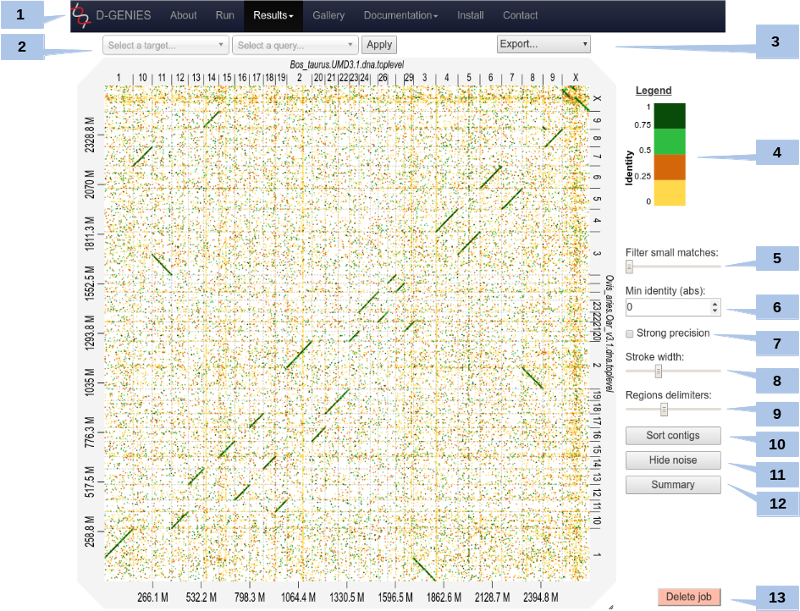
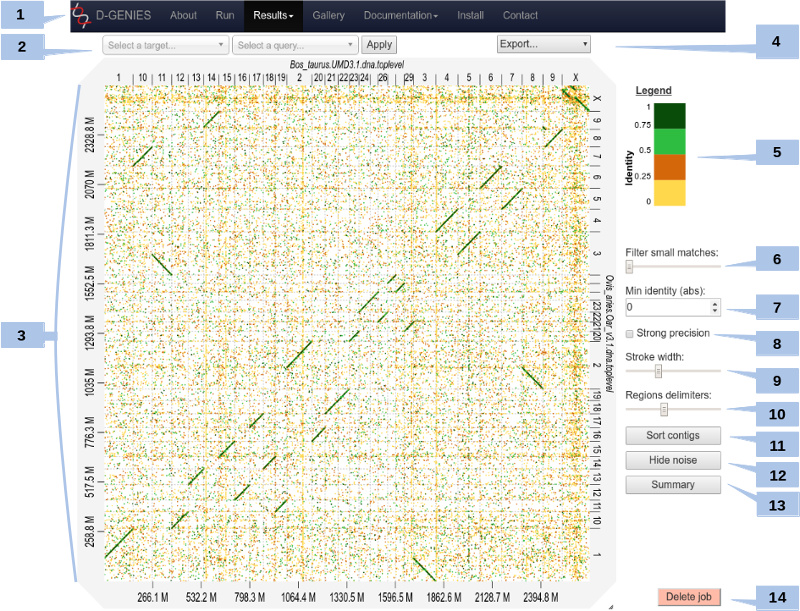
Update user manual

diff --git a/src/dgenies/templates/result.html b/src/dgenies/templates/result.html
@@ -68,7 +68,7 @@
                 <div class="title">
                     Legend
                 </div>
-                <div><p><a href="/documentation/result#3-matches-details">How it is computed?</a></p></div>
+                <div><p><a href="/documentation/result#identity">How it is computed?</a></p></div>
                 <div class="draw"></div>
             </div>
             <form id="form-parameters">

diff --git a/src/dgenies/md/user_manual.md b/src/dgenies/md/user_manual.md
@@ -3,19 +3,26 @@ How to use?
 
 ![illustrating](/static/images/D-GENIES-result.png)
 
-The result page (see above) presents the dot plot following the fasta files sequence order*. The alignment matches are presented as colored lines on the graphical panel. The colors correspond to similarity (also called identity) values which have been binned in four groups (less than 25%, between 25 and 50%, between 50 and 75% and over 75% similarity).
+The result page (see above) presents the dot plot following the fasta files sequence order*. The alignment matches are presented as colored lines on the graphical panel. The colors correspond to similarity values (called here identity values) that have been binned in four groups (less than 25%, between 25 and 50%, between 50 and 75% and over 75% similarity).
 
 The top and right margin of the graphical panel show the sequence names. Depending on the sequence and name length, the names will be fully or partially presented. In order to ease visualization, all sequences smaller than 0.2 percent of the total length are merged in a unique super-sequence for which the margin is grayed. The left and bottom margins show the sequence size scales.
 
 \* Except if more than 75% of the query length if composed of contigs with size less than 1% of the query length. In this case, contigs of the query are already sorted according to the reference.
 
+### Definitions
 
-### (1) Main menu
+#### Identity
+
+The identity value *I*=<sup>*M*</sup>&frasl;<sub>*N*</sub> is a BLAST-like alignment identity computed from the [PAF file](/documentation/formats#paf-pairwise-mapping-format) where *M* is the *Number of matching bases in the mapping* and *N* is the *Number bases, including gaps, in the mapping*.
+
+### Page description
+
+#### (1) Main menu
 
 You can access to your previous results by clicking on the main menu in the `Results` item. A list will appear with all jobs you have launched on the server.
 
 
-### (2) Select query and target
+#### (2) Select query and target
 
 You can zoom on the graph by pushing the CRTL key while turning the mouse wheel forward to zoom in and backward to zoom out. Drag and drop to move the graph (with CTRL key still pushed).
 
@@ -26,15 +33,13 @@ Or, you can select the zone by selecting a query and a target in the dropdown me
 To come back to the initial view, click on the icon at the top right of the dotplot or press ESC.
 
 
-### (3) Matches details
+#### (3) Matches details
 
 For each match, you can view positions on query and on target and the precise identity value by placing mouse cursor over it.
 
 Due to technical limits, it doesn't work for too small matches. You can zoom to make it work for them.
 
-The identity value *I*=<sup>*M*</sup>&frasl;<sub>*N*</sub> is a BLAST-like alignment identity computed from the [PAF file](/documentation/formats#paf-pairwise-mapping-format) where *M* is the *Number of matching bases in the mapping* and *N* is the *Number bases, including gaps, in the mapping*.
-
-### (4) Export
+#### (4) Export
 
 Several export options are available:
 
@@ -51,7 +56,7 @@ And, if you sorted the dotplot:
 * Download all contigs of the query assembled like the chromosomes of the target. We take the diagonal match line, and for all contigs that match the same chromosome, we stick them together, separated by a 100-N block.
 
 
-### (5) Color scheme
+#### (5) Color scheme
 
 You can change the default color scheme. Five other color schemes are available:
 
@@ -64,48 +69,48 @@ You can change the default color scheme. Five other color schemes are available:
 To change color scheme, click on the legend.
 
 
-### (6) Match size filtering
+#### (6) Match size filtering
 
 You can remove too small matches by moving the slider. By increments, it remove matches with size of 0.001 to 0.2% of the dotplot width. Too small matches are also removed by the `Remove noise` button (see below).
 
 
-### (7) Match identity filtering
+#### (7) Match identity filtering
 
 Set the minimal identity to show. All matches with a lower identity value will be hidden.
 
 
-### (8) Strong precision
+#### (8) Strong precision
 
 When checked, the strong precision check-box reduces match borders removing small matches from the graphical panel, often showing gaps between non contiguous matches.
 
 
-### (9) Line breadth
+#### (9) Line breadth
 
 Change the match lines thickness with the slider.
 
 
-### (10) Chrom. border breadth
+#### (10) Chrom. border breadth
 
 Change the visibility of the chromosomes borders with the slider.
 
 
-### (11) Sort
+#### (11) Sort
 
 You can sort (or unsort) contigs by clicking on the button. Contigs of the query will be sorted according to the reference. It will take few seconds.
 
 How it works? For each contig of the query we search the region which have the biggest matches with the target and store these coordinates. Then, we sort contigs by their associated coordinates.
 
 
-### (12) Hide noise
+#### (12) Hide noise
 
 To remove noise. A match is considered noise if its size is small and its size frequency is quite high. Therefore we group matches by size bins, the number of bins corresponds to one tenth of the number of alignments, the bins are scanned in increasing size order to find the most represented one and from this one the one corresponding to one percent of its count is searched. All the alignments in bins smaller in size than this one are considered noise. It will take few seconds.
 
 
-### (13) Similarity summary
+#### (13) Similarity summary
 
 To ease dot plot comparison, clicking the summary button generates a bar graph presenting the reference similarity profile, meaning the sums of the projections of the matches on the reference per similarity category divided by the total reference length. This graph is produced after sorting the query along the reference, removing included matches and noise filtering; result not shown on the graphical panel. It gives a realistic view of the overall reference and query similarity which is often not very precisely measured through visual inspection.
 
 
-### (14) Delete job
+#### (14) Delete job
 
 By clicking on the button, your job will be definitively removed on the server. Be careful, this operation can not be undone!
